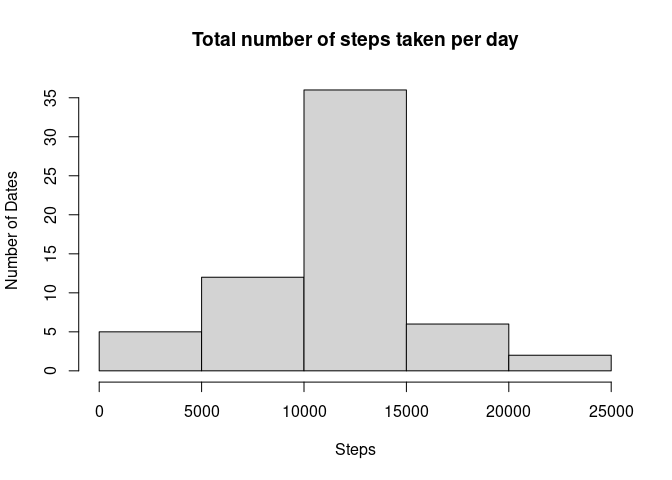
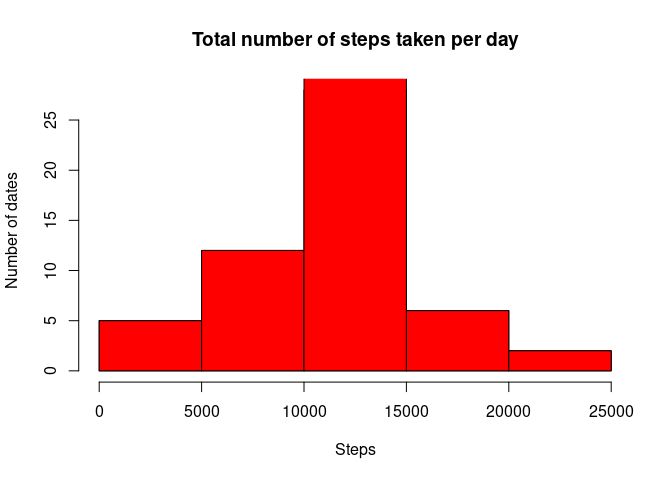
code correction in imputing nas

diff --git a/PA1_template.html b/PA1_template.html
@@ -417,8 +417,9 @@ filledda[nas,]$steps &lt;- meanforna</code></pre>
 <p>Histogram of total number of steps taken per day from new dataset <code>filledda</code> created above</p>
 <pre class="r"><code>dates &lt;- as.Date(filledda$date,format = &quot;%Y-%m-%d&quot;)
 sumsteps2 &lt;- aggregate(steps ~ dates,filledda, FUN = sum)
-hist(sumsteps2$steps,main = &quot;Total number of steps taken per day&quot;, xlab = &quot;Steps&quot;,ylab = &quot;Number of Dates&quot;)</code></pre>
[1 lines of base64/hex data omitted]
+hist(sumsteps$steps,main = &quot;Total number of steps taken per day&quot;, xlab =&quot;Steps&quot;,ylab = &quot;Number of dates&quot;, col = &quot;blue&quot;)
+hist(sumsteps2$steps,main = &quot;Total number of steps taken per day&quot;, xlab = &quot;Steps&quot;,ylab = &quot;Number of Dates&quot;, col = &quot;red&quot;, add=T)</code></pre>
[1 lines of base64/hex data omitted]
 <p>Here we have mean and median of the total number of steps taken per day</p>
 <pre class="r"><code>print(c(summary(sumsteps2$steps)[4],summary(sumsteps2$steps)[3]))</code></pre>
 <pre><code>##     Mean   Median 

diff --git a/PA1_template.md b/PA1_template.md
@@ -95,7 +95,8 @@ Histogram of total  number of steps taken per day from new dataset `filledda` cr
 ```r
 dates <- as.Date(filledda$date,format = "%Y-%m-%d")
 sumsteps2 <- aggregate(steps ~ dates,filledda, FUN = sum)
-hist(sumsteps2$steps,main = "Total number of steps taken per day", xlab = "Steps",ylab = "Number of Dates")
+hist(sumsteps$steps,main = "Total number of steps taken per day", xlab ="Steps",ylab = "Number of dates", col = "blue")
+hist(sumsteps2$steps,main = "Total number of steps taken per day", xlab = "Steps",ylab = "Number of Dates", col = "red", add=T)
 ```
 
 ![](PA1_template_files/figure-html/unnamed-chunk-9-1.png)<!-- -->
